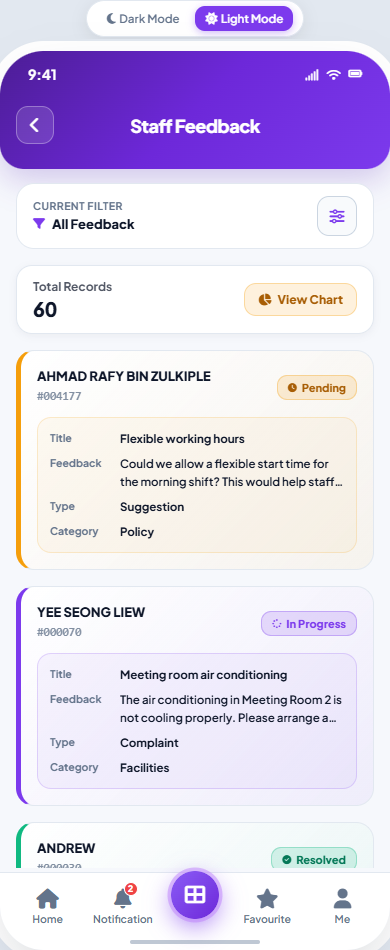
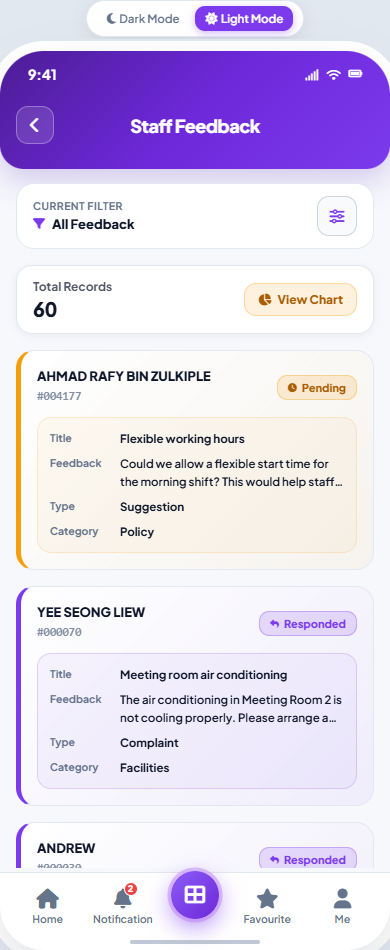
12/10:1155

Changed region(s): [[0.6462, 0.8853, 0.9231, 0.9158], [0.6462, 0.6411, 0.8923, 0.6716], [0.0308, 0.8547, 0.0615, 0.9158]]

diff --git a/modules/employee-career/js/staff-feedback.js b/modules/employee-career/js/staff-feedback.js
@@ -52,13 +52,14 @@
   };
   const formatDate = value => value ? new Date(value + 'T00:00:00').toLocaleDateString('en-GB', { day: 'numeric', month: 'short', year: 'numeric' }) : '—';
   const employeeNumber = row => '#' + String(row.empNo).replace(/^#/, '');
-  const historyStatus = status => ({ Pending: 'submitted', 'In Progress': 'draft', Resolved: 'approved' }[status] || '');
-  const statusIcon = status => ({ Pending: 'fa-clock', 'In Progress': 'fa-spinner', Resolved: 'fa-circle-check' }[status] || 'fa-circle-info');
+  const statusLabel = status => status === 'Pending' ? 'Pending' : 'Responded';
+  const historyStatus = status => statusLabel(status) === 'Pending' ? 'submitted' : 'draft';
+  const statusIcon = status => statusLabel(status) === 'Pending' ? 'fa-clock' : 'fa-reply';
   const statusBadge = status => {
     const badge = element('span', 'status-pill staff-feedback-status ' + historyStatus(status));
     const icon = element('i', 'fa-solid ' + statusIcon(status));
     icon.setAttribute('aria-hidden', 'true');
-    badge.append(icon, document.createTextNode(status || '—'));
+    badge.append(icon, document.createTextNode(statusLabel(status) || '—'));
     return badge;
   };
 
@@ -70,7 +71,7 @@
       (!applied.endDate || row.date <= applied.endDate) &&
       (!applied.type || row.type === applied.type) &&
       (!applied.category || row.category === applied.category) &&
-      (!applied.status || row.status === applied.status)
+      (!applied.status || statusLabel(row.status) === applied.status)
     );
     const cards = visibleRows.map(row => {
       const card = element('article', 'history-card-item staff-feedback-card');
@@ -108,7 +109,7 @@
     if (applied.startDate && applied.endDate) summary.push(`${formatDate(applied.startDate)} – ${formatDate(applied.endDate)}`);
     else if (applied.startDate) summary.push(`From ${formatDate(applied.startDate)}`);
     else if (applied.endDate) summary.push(`Until ${formatDate(applied.endDate)}`);
-    ['type', 'category', 'status'].forEach(key => { if (applied[key]) summary.push(applied[key]); });
+    ['type', 'category', 'status'].forEach(key => { if (applied[key]) summary.push(key === 'status' ? statusLabel(applied[key]) : applied[key]); });
     $('staffFeedbackFilterSummary').textContent = summary.join(' · ') || 'All Feedback';
   }
 
@@ -131,7 +132,7 @@
       ['Feedback Date 2', formatDate(record.feedbackDate2)], ['Feedback Note', record.feedbackNote ?? record.feedback],
       ['Feedback Remarks', record.feedbackRemarks], ['Submit Date', formatDate(record.submitDate)],
       ['Reviewer Comment', record.reviewerComment], ['Reviewed By', record.reviewedBy],
-      ['Reviewed Date', formatDate(record.reviewedDate)], ['Rating', record.rating], ['Reward', record.reward], ['Status', record.status]
+      ['Reviewed Date', formatDate(record.reviewedDate)], ['Rating', record.rating], ['Reward', record.reward], ['Status', statusLabel(record.status)]
     ];
     const rows = fields.map(([label, value]) => {
       const row = element('tr', '');
@@ -177,9 +178,13 @@
       category: { title: 'Feedback by category', column: 'Feedback Category' }
     }[metric];
     const counts = new Map();
-    visibleRows.forEach(row => { const label = row[metric] || 'Unspecified'; counts.set(label, (counts.get(label) || 0) + 1); });
+    visibleRows.forEach(row => {
+      const value = row[metric] || 'Unspecified';
+      const label = metric === 'status' ? statusLabel(value) : value;
+      counts.set(label, (counts.get(label) || 0) + 1);
+    });
     const palette = ['#a78bfa', '#f59e0b', '#34d399', '#60a5fa', '#f472b6'];
-    const statusColors = { Pending: '#f59e0b', 'In Progress': '#7c3aed', Resolved: '#10b981' };
+    const statusColors = { Pending: '#f59e0b', Responded: '#7c3aed' };
     let currentOffset = 0;
     const circumference = 439.82;
     const legend = [];

diff --git a/modules/employee-career/options/team/staff-feedback.html b/modules/employee-career/options/team/staff-feedback.html
@@ -58,7 +58,7 @@
         <div><label for="staffFeedbackEndDate">End Date</label><input id="staffFeedbackEndDate" type="date" aria-describedby="staffFeedbackFilterError"></div>
         <div><label for="staffFeedbackType">Feedback Type</label><select id="staffFeedbackType"><option value="">All Feedback Types</option><option>General</option><option>Suggestion</option><option>Compliment</option><option>Complaint</option></select></div>
         <div><label for="staffFeedbackCategory">Feedback Category</label><select id="staffFeedbackCategory"><option value="">All Categories</option><option>Workplace</option><option>Management</option><option>Policy</option><option>Facilities</option><option>Other</option></select></div>
-        <div><label for="staffFeedbackStatus">Status</label><select id="staffFeedbackStatus"><option value="">All Statuses</option><option>Pending</option><option>In Progress</option><option>Resolved</option></select></div>
+        <div><label for="staffFeedbackStatus">Status</label><select id="staffFeedbackStatus"><option value="">All Statuses</option><option>Pending</option><option>Responded</option></select></div>
         <p id="staffFeedbackFilterError" class="staff-feedback-filter-error" role="alert" hidden></p>
       </div>
       <footer class="standard-filter-footer"><button type="submit" id="staffFeedbackApplyFilter" class="standard-filter-apply">Apply Filter</button></footer>
